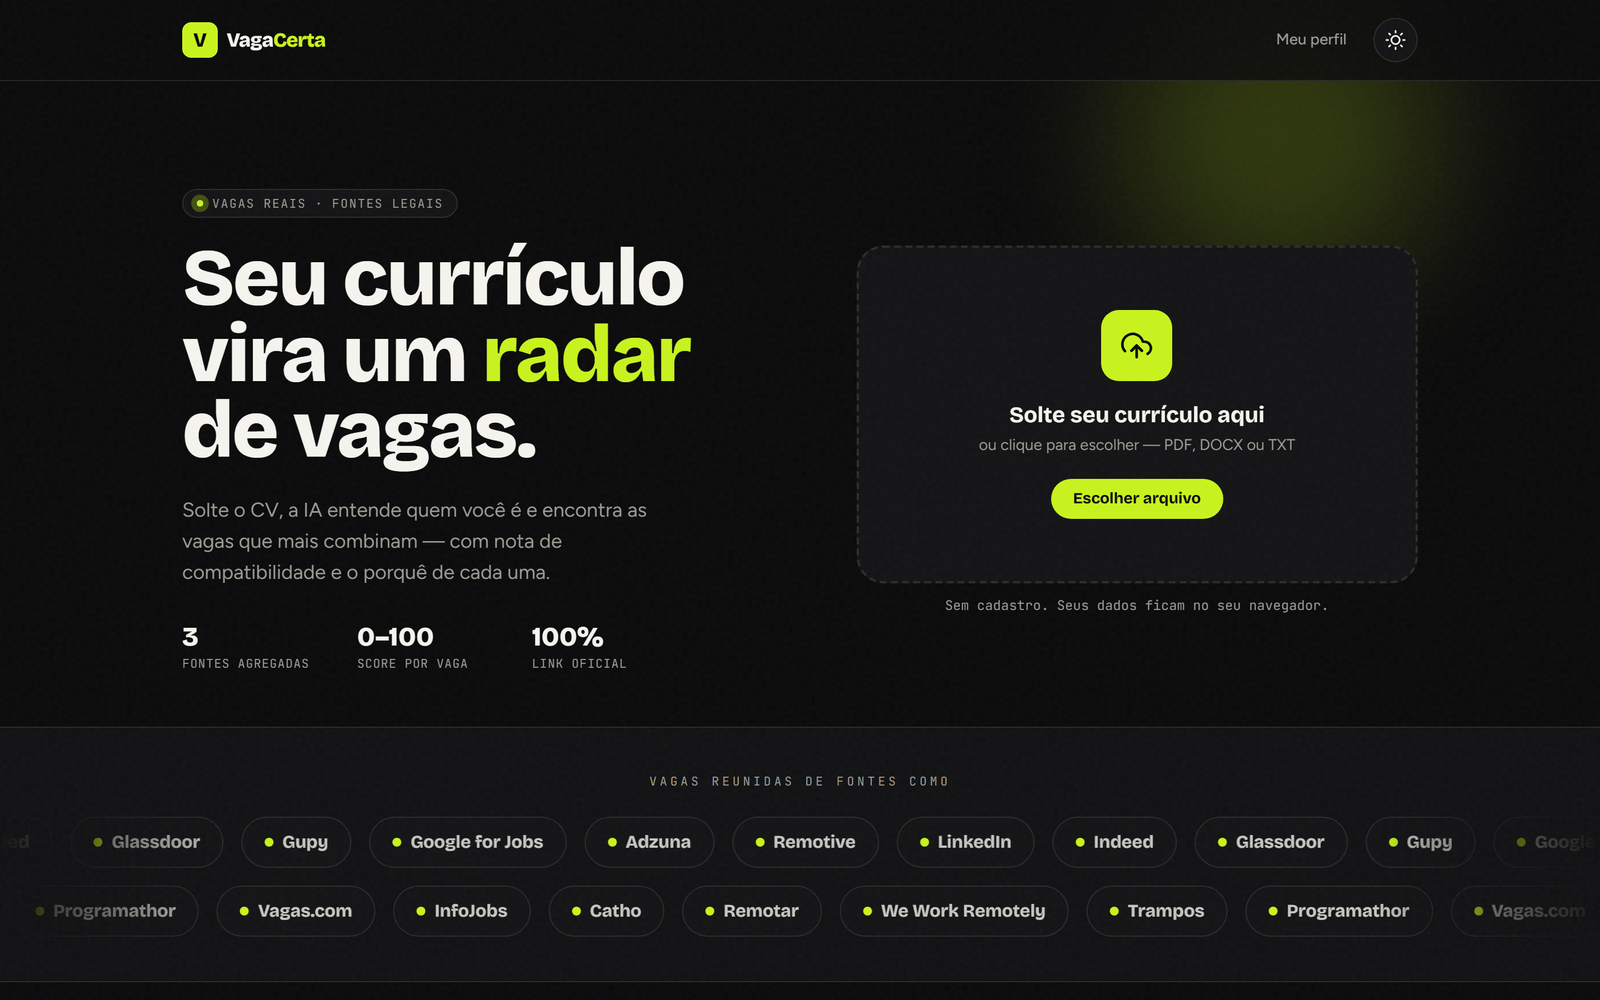
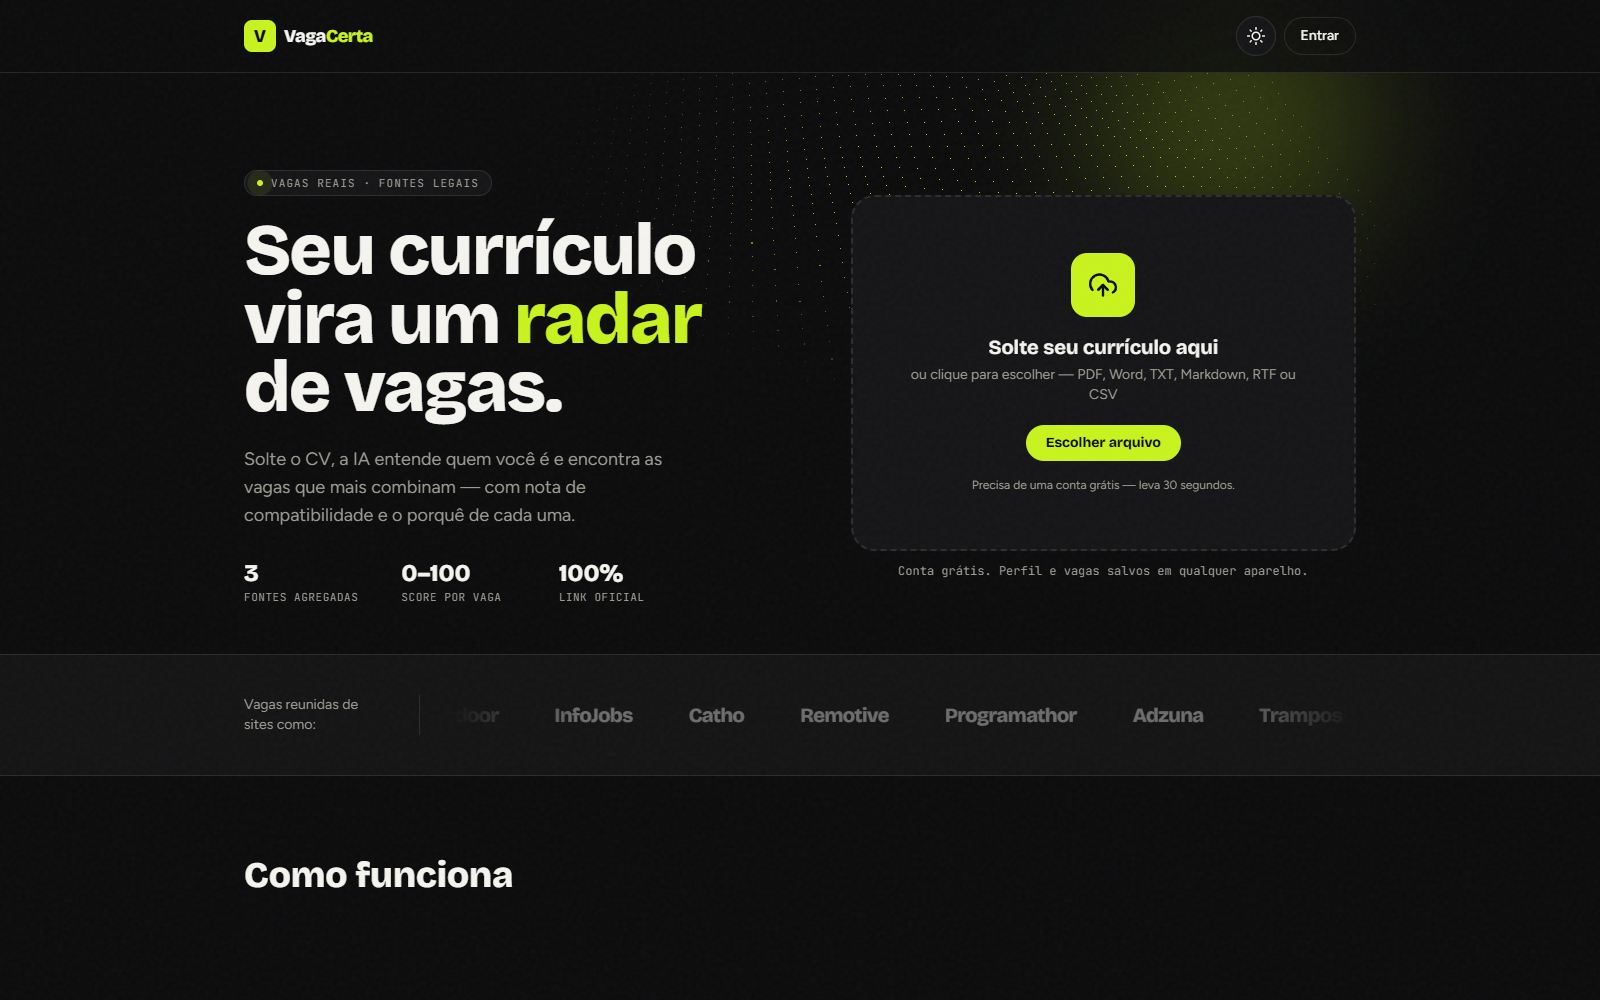
docs: README, AGENTS.md e prints com o estado atual do projeto
- Prints novos (1600x1000, claro e escuro) com conta de demonstração e
  currículo fictício: landing, resultados, perfil e o tracker (novo).
- README: funções novas (lacunas do CV, filtros de salário, descarte, vagas
  novas, perfil editável, exportar/excluir), tracker com 4 etapas e na
  conta, decisões 7 (custo da IA: cota, cache, prazo) e 8 (RLS, prompt
  sem corpo da requisição, sessão revalidada, retenção), arquitetura,
  scripts de migration, 439 testes, selo do CI e roadmap.
- AGENTS.md: o produto exige conta (o texto ainda dizia o contrário) e o
  mapa do código atual.

diff --git a/README.md b/README.md
@@ -13,7 +13,8 @@ com os motivos a favor, o que falta no seu perfil e o **link oficial de candidat
 ![TypeScript](https://img.shields.io/badge/TypeScript-5-3178C6?style=flat-square&logo=typescript&logoColor=white)
 ![Tailwind CSS](https://img.shields.io/badge/Tailwind-4-06B6D4?style=flat-square&logo=tailwindcss&logoColor=white)
 ![Gemini](https://img.shields.io/badge/Gemini-3.1_Flash--Lite-4285F4?style=flat-square&logo=googlegemini&logoColor=white)
-![Tests](https://img.shields.io/badge/testes-139_passando-4d7c0f?style=flat-square)
+![Tests](https://img.shields.io/badge/testes-439_passando-4d7c0f?style=flat-square)
+![CI](https://github.com/cielioqueiroz/buscador-de-cv/actions/workflows/ci.yml/badge.svg)
 ![License](https://img.shields.io/badge/licença-MIT-informational?style=flat-square)
 
 <br/>
@@ -42,8 +43,22 @@ Você solta o currículo — **PDF, Word (.doc/.docx), TXT, Markdown, RTF ou CSV
    Baixe em **PDF** ou **compartilhe** pelo menu do seu próprio celular.
 5. Você vai direto ao **link oficial** — sem intermediário.
 6. Em cada vaga, você pode **adaptar o CV** para destacar somente experiências reais relevantes.
-7. Adicione oportunidades ao **tracker Kanban** e acompanhe Aplicado → Entrevista → Oferta.
+7. Adicione oportunidades ao **tracker Kanban** — Aplicado → Entrevista → Oferta → Recusado —,
+   com anotações e a data da entrevista.
 8. No seu perfil, gere um relatório de **como melhorar o CV** com prioridades acionáveis.
+
+E no dia a dia:
+
+- **O que mais falta no seu CV** — as habilidades que as vagas pedem e o currículo não mostra,
+  somadas na lista inteira.
+- **Filtros** por modalidade, data, fonte, salário (com moeda e período certos) e nota mínima;
+  e **"Onde"** refaz a busca por estado, cidade ou país.
+- **"Não tenho interesse"** com motivo tira a vaga da lista (e das próximas buscas), com desfazer.
+- **Vagas novas**: depois de uma nova busca, as vagas com nota 70+ que não estavam na anterior
+  ganham o selo **Nova**, e o painel avisa quantas chegaram.
+- **Perfil editável** — se a IA entendeu errado alguma habilidade, você corrige e as próximas
+  buscas usam a sua versão.
+- **Seus dados são seus** — exporte tudo em JSON ou exclua a conta em `/conta` (LGPD).
 
 Para usar, basta **criar uma conta grátis** (e-mail e senha, ou Google). O perfil, o tracker,
 os favoritos, as cartas e a foto ficam salvos na conta — em qualquer aparelho. Quem está logado
@@ -74,7 +89,7 @@ flowchart LR
     M -.-> N[["CV direcionado<br/>resumo · skills · destaques"]]
     D -.-> O{{"🧠 Gemini<br/>generateCVImprovementReport"}}
     O -.-> P[["Relatório<br/>forças · lacunas · ações"]]
-    I -.-> Q["📌 Tracker local<br/>Aplicado → Entrevista → Oferta"]
+    I -.-> Q["📌 Tracker na conta<br/>Aplicado → Entrevista → Oferta → Recusado"]
 
     style C fill:#4285F4,stroke:#4285F4,color:#fff
     style H fill:#4285F4,stroke:#4285F4,color:#fff
@@ -89,6 +104,8 @@ flowchart LR
 
 ## Telas
 
+<sub>Prints com uma conta de demonstração e um currículo fictício.</sub>
+
 <table>
 <tr>
 <td width="50%" align="center"><b>🌙 Escuro</b></td>
@@ -99,14 +116,25 @@ flowchart LR
 <td><img src="assets/screenshots/resultados-light.png" alt="Resultados — tema claro"/></td>
 </tr>
 <tr>
-<td colspan="2" align="center"><sub>Vagas ranqueadas: nota de match, o que combina (✓) e o que falta (⚠), com link oficial.</sub></td>
+<td colspan="2" align="center"><sub>Vagas ranqueadas: nota de match, o que combina (✓) e o que falta (⚠), o que mais falta no CV, filtros e o link oficial.</sub></td>
 </tr>
 <tr>
 <td><img src="assets/screenshots/perfil-dark.png" alt="Perfil — tema escuro"/></td>
 <td><img src="assets/screenshots/perfil-light.png" alt="Perfil — tema claro"/></td>
 </tr>
 <tr>
-<td colspan="2" align="center"><sub>O perfil que a IA extraiu do seu currículo — e as buscas que ela gerou a partir dele.</sub></td>
+<td colspan="2" align="center"><sub>O painel: o perfil que a IA extraiu, as candidaturas em números, o que falta para o perfil ficar completo e as habilidades — editáveis.</sub></td>
+</tr>
+<tr>
+<td><img src="assets/screenshots/candidaturas-dark.png" alt="Tracker — tema escuro"/></td>
+<td><img src="assets/screenshots/candidaturas-light.png" alt="Tracker — tema claro"/></td>
+</tr>
+<tr>
+<td colspan="2" align="center"><sub>O tracker: arraste os cards ou troque a etapa pelo seletor; anotações e data da entrevista em cada card.</sub></td>
+</tr>
+<tr>
+<td><img src="assets/screenshots/landing-dark.png" alt="Landing — tema escuro"/></td>
+<td><img src="assets/screenshots/landing-light.png" alt="Landing — tema claro"/></td>
 </tr>
 </table>
 
@@ -123,9 +151,10 @@ cautelas para você revisar antes de enviar.
 
 ### Tracker de candidaturas
 
-O botão **Acompanhar** salva a vaga no tracker, disponível em `/candidaturas`.
-O quadro tem três colunas e aceita arrastar os cards ou mudar a etapa pelo
-seletor. O tracker fica salvo na conta.
+O botão **Acompanhar** salva a vaga no tracker, em `/candidaturas`. São quatro colunas —
+Aplicado, Entrevista, Oferta e Recusado —, com arrastar e soltar ou o seletor de etapa (que
+funciona no teclado). Cada card guarda anotações e a data da entrevista, e remover tem desfazer.
+Tudo fica salvo na conta.
 
 ### Relatório de melhoria do CV
 
@@ -133,13 +162,14 @@ Em `/perfil`, o painel **Como melhorar seu CV** analisa o currículo atual e
 retorna pontos fortes, melhorias priorizadas e termos para investigar. A IA é
 instruída a diferenciar uma lacuna real de uma habilidade que não foi comprovada.
 
-### Alertas por e-mail
+### Vagas novas, dentro do app
 
-Esta é a próxima integração. A interface ainda não coleta e-mail porque o app
-não possui persistência de assinaturas nem provedor de envio. Para ativar
-alertas recorrentes com segurança, a próxima etapa será adicionar um adapter de
-e-mail, uma tabela protegida por RLS e um job agendado para buscar vagas novas
-com score mínimo.
+Não há busca em segundo plano — cada busca gasta cota da IA e das fontes. Então "nova" é a
+vaga que apareceu na busca mais recente e não estava na anterior, com nota **70 ou mais**: ela
+ganha o selo **Nova** em `/resultados`, e o painel do `/perfil` avisa quantas chegaram. Com a
+lista a 3 dias ou mais, aparece o convite **Buscar vagas novas**.
+
+Alertas **por e-mail** ficam para quando houver domínio próprio para o envio (Resend).
 
 <br/>
 
@@ -199,8 +229,7 @@ exatamente a carta que recrutador descarta: proibidos o clichê ("sempre fui apa
 por…"), o currículo reescrito em prosa, e — o pior — inventar experiência que não está no
 CV. Quando a vaga pede algo que falta, a carta reconhece com honestidade em vez de mentir.
 
-A carta é salva por vaga no `localStorage`: reabrir não gasta outra chamada. Trocar de
-currículo apaga as cartas — elas nasceram do CV antigo.
+A carta é salva por vaga na conta: reabrir não gasta outra chamada, em qualquer aparelho.
 
 **O PDF usa a impressão nativa do navegador.** A carta tem uma folha A4 própria, e o botão
 abre o diálogo para a pessoa escolher "Salvar como PDF". Assim o app não precisa manter uma
@@ -235,15 +264,39 @@ gerava buscas descritivas e longas — que não retornavam nada:
 O prompt agora limita a 3 palavras e proíbe senioridade nas buscas. Parece um detalhe; é a
 diferença entre o app achar vagas e não achar.
 
-### 6. Página vazia não vai para o índice
+### 6. Página sem conteúdo público não vai para o índice
 
-`/perfil` e `/resultados` só ganham conteúdo depois que você envia um CV — o estado vive no
-`localStorage`. Para um robô, elas são cascas de **8 e 98 palavras**. Estão em `noindex` e fora
-do sitemap: página vazia indexada não deixa de ranquear, ela **puxa o site inteiro para baixo**.
+As áreas da conta (`/perfil`, `/resultados`, `/candidaturas`, `/conta`) exigem login — para um
+robô, são só um redirecionamento. Ficam em `noindex` e bloqueadas no `robots.txt`: página vazia
+indexada não deixa de ranquear, ela **puxa o site inteiro para baixo**.
 
 O que o site expõe para máquinas: `robots.txt`, `sitemap.xml`, JSON-LD (`WebApplication` +
 `FAQPage`), Open Graph com banner próprio, e um `llms.txt` para ChatGPT/Perplexity entenderem
 e citarem o projeto.
+
+### 7. O custo da IA tem freio por conta — e prazo
+
+A IA é a parte paga do app, então ela tem três travas:
+
+- **Limite por minuto** e **cota diária por conta** (10 análises de CV, 30 buscas pontuadas,
+  20 cartas, 20 adaptações, 5 relatórios — renova à meia-noite de Brasília). A cota só é
+  gasta quando a IA é chamada de fato.
+- **Cache de notas** por versão do CV: a mesma vaga com o mesmo currículo não volta à IA por
+  14 dias.
+- **Orçamento de tempo**: retry com espera crescente quando o Gemini está sobrecarregado,
+  mas tudo dentro de 50 s — nunca o 504 mudo da Vercel. Esgotou, a pessoa lê "A IA está com
+  muita demanda agora", não "Falha".
+
+### 8. Segurança e privacidade no servidor, não na promessa
+
+- **RLS no Postgres**: as consultas de dados do usuário rodam numa role sem `BYPASSRLS`; uma
+  consulta que esqueça o `where user_id` volta vazia, nunca com dado de outra pessoa.
+- **A IA nunca lê o corpo da requisição**: perfil e vaga saem do banco — ninguém injeta texto
+  no prompt editando o request.
+- **Sessão revalidada**: senha trocada ou conta excluída derrubam os logins abertos.
+- **Retenção de verdade**: um job diário faz o backup criptografado do banco e, depois dele,
+  apaga notas vencidas, buscas antigas, tokens usados e contas sem acesso há 24 meses — o que
+  a [política de privacidade](https://vaga-certa-sooty.vercel.app/privacidade) promete.
 
 <br/>
 
@@ -254,42 +307,39 @@ Para a matriz de controles e os limites conhecidos, consulte [`SECURITY.md`](SEC
 ```text
 app/
   page.tsx                 landing + upload do CV
-  resultados/page.tsx      vagas com score + filtros
-  perfil/page.tsx          perfil extraído do CV
-  candidaturas/page.tsx    tracker Kanban (local ou na conta)
-  entrar · cadastrar       login e cadastro (NextAuth v5)
+  resultados/              vagas com score, filtros, "Onde" e vagas novas
+  perfil/                  painel: perfil, candidaturas, checklist, habilidades
+  candidaturas/            tracker Kanban (na conta)
+  conta/                   foto, nome, exportar dados e excluir conta
+  entrar · cadastrar       login e cadastro (NextAuth v5, e-mail ou Google)
   esqueci-senha · redefinir-senha
-  conta/page.tsx           foto de perfil e nome
+  privacidade/             política de privacidade (LGPD)
+  not-found.tsx            404 com caminho de volta
   api/
     auth/                  NextAuth + cadastro + reset de senha
-    perfil/                import de dados antigos do navegador, foto (avatar) e conta
-    sync/                  tracker, favoritos, cartas e CVs adaptados no banco
+    perfil/                avatar, conta, CV editado e exportação
+    sync/                  tracker, favoritos, cartas, CVs adaptados, descartes e estado
     cv/analyze             extrai texto → Gemini devolve o CVProfile
     cv/adapt               adapta o CV para uma vaga específica
     cv/report              relatório de melhorias do CV
     jobs/search            busca nos providers (paralelo) → normaliza → dedup
-    jobs/match             Gemini pontua CV × vagas, em lote único
+    jobs/match             Gemini pontua CV × vagas, em lote único (com cache)
     cover-letter           Gemini escreve a carta de UMA vaga — só sob clique
 lib/
-  providers/               adapters isolados + agregador
+  providers/               adapters isolados + agregador + fetch com timeout
     types.ts               schemas zod — o contrato de tudo
     adzuna · remotive · jsearch
-  ai/gemini.ts             analyzeCV + matchJobs + generateCoverLetter
-  cover-letter.ts          schemas da carta + serialização (tom, tamanho, ATS)
-  cv-features.ts           schemas de adaptação e relatório do CV
-  applications.ts          persistência validada do tracker local
-  share.ts                 Web Share API com queda para a área de transferência
+  ai/gemini.ts             análise · matching · carta · adaptação · relatório (retry com prazo)
+  jobs/                    busca, ranking, cache de notas, vagas novas e descartes no banco
+  api/                     leitura limitada de JSON, guarda de origem, cota de IA, erro 503
+  auth/                    usuários, senha, sessão, reset, avatar, perfil, sync e LGPD
+  db/                      pool do Postgres (Neon) + escopo RLS por usuário
   cv/parser.ts             extração de texto (PDF · Word · TXT · Markdown · RTF · CSV)
-  api/request.ts           limite de corpo, JSON e proteção de origem
-  providers/http.ts        fetch externo com timeout
-  deploy-recovery.ts       recuperação de chunks antigos após deploy
-  matching.ts              rankJobs — ordena e casa cada nota com sua vaga
   rate-limit.ts            limite por janela (Upstash, com queda para memória)
-  api/ai-quota.ts          cota diária de IA por conta
-  store.ts                 persistência local (localStorage)
-  auth/                    usuários, senha, reset, avatar, perfil e sync no banco
-  db/client.ts             pool do Postgres (Neon serverless ou pg)
-db/migrations/             SQL fonte de verdade do schema
+  client/                  estado do navegador, sync com a API, diálogos
+  matching · filters · salary · skills-gap · region · share
+db/migrations/             SQL fonte de verdade do schema (0001–0012)
+.github/workflows/         CI (lint, tipos, testes, build, audit) e backup diário
 components/                UI própria — sem kit genérico
 ```
 
@@ -324,7 +374,7 @@ npm run dev                  # http://localhost:3000
 | `GEMINI_API_KEY` | Análise do CV e matching | [aistudio.google.com/apikey](https://aistudio.google.com/apikey) | ✅ |
 | `ADZUNA_APP_ID` · `ADZUNA_APP_KEY` | Vagas no Brasil | [developer.adzuna.com](https://developer.adzuna.com) | recomendada |
 | `RAPIDAPI_KEY` | JSearch | [rapidapi.com](https://rapidapi.com) → assine "JSearch" | recomendada |
-| `UPSTASH_REDIS_REST_URL` · `UPSTASH_REDIS_REST_TOKEN` | Rate limit distribuído por IP | [upstash.com](https://upstash.com) (Redis grátis) | produção |
+| `UPSTASH_REDIS_REST_URL` · `UPSTASH_REDIS_REST_TOKEN` | Limites e cota de IA compartilhados entre instâncias (a integração da Vercel injeta `KV_REST_API_*`, também aceitas) | [upstash.com](https://upstash.com) (Redis grátis) | produção |
 | `DATABASE_URL` | Contas e dados salvos (Postgres) | [neon.tech](https://neon.tech) → connection string *pooled* | para contas |
 | `AUTH_SECRET` | Assina a sessão | `openssl rand -base64 32` | para contas |
 | `AUTH_GOOGLE_ID` · `AUTH_GOOGLE_SECRET` | "Entrar com Google" | Google Cloud Console → OAuth client | opcional |
@@ -336,9 +386,9 @@ Talent.com** e outros. Sem elas, sobra só o Remotive (público, mas só vagas r
 internacionais).
 
 Cada provider degrada com elegância — faltando uma chave, ele retorna vazio e os outros seguem
-funcionando. O Upstash é opcional: sem ele, o rate limit usa um contador em memória por
-instância; com ele, o teto por IP vale para o app inteiro (recomendado em produção, pois é o
-principal freio da cota paga do Gemini num app aberto).
+funcionando. O Upstash é opcional: sem ele, os limites usam um contador em memória por
+instância; com ele, valem para o app inteiro (recomendado em produção, pois é o principal
+freio da cota paga do Gemini).
 
 O app exige conta para analisar o CV, buscar e pontuar vagas e gerar textos — as rotas de IA
 devolvem 401 sem sessão. Com `DATABASE_URL` e `AUTH_SECRET`, o login por e-mail e senha
@@ -354,16 +404,22 @@ Rode nos dois branches do Neon (main e preview).
 ## Scripts
 
 ```bash
-npm run dev      # desenvolvimento
-npm run build    # build de produção
-npm start        # serve o build
-npm test         # testes unitários e de integração (Vitest)
-npm run lint     # ESLint
+npm run dev        # desenvolvimento
+npm run build      # build de produção
+npm start          # serve o build
+npm test           # testes unitários e de integração (Vitest)
+npm run lint       # ESLint
+npm run db:migrate # aplica as migrations pendentes
+npm run db:status  # lista o estado das migrations
 ```
 
-Os testes cobrem os adapters, o parser, o agregador, as guardas das rotas, o retry do Gemini,
-o matching em lote, os contratos de adaptação/relatório e o tracker — com as APIs externas
-mockadas. **Nenhum teste gasta chamada de IA.**
+São **439 testes**: adapters, parser, agregador, guardas e limites das rotas, cota de IA,
+retry com prazo do Gemini, matching em lote, cache de notas, vagas novas, RLS, sessão, LGPD,
+tracker, componentes — e até o contraste das cores dos dois temas e a estrutura de
+acessibilidade das páginas. As APIs externas são mockadas: **nenhum teste gasta chamada de IA.**
+
+O CI roda lint, tipos, testes, build e `npm audit` a cada push; o deploy na Vercel sai do
+`master`.
 
 <br/>
 
@@ -371,14 +427,17 @@ mockadas. **Nenhum teste gasta chamada de IA.**
 
 - [x] Contas — e-mail/senha ou Google, reset de senha, foto de perfil, painel e dados salvos no Neon
 - [x] Excluir conta e exportar os dados — em `/conta`, com confirmação por e-mail e senha
-- [ ] Trocar o e-mail com verificação
-- [x] ~~Gerar carta de apresentação por vaga~~ — feito: tom, tamanho, ATS, editar, PDF, compartilhar
+- [x] Gerar carta de apresentação por vaga — tom, tamanho, ATS, editar, PDF, compartilhar
 - [x] Adaptar o CV por vaga — rascunho direcionado, sem inventar experiência
-- [x] Tracker de candidaturas — Kanban local: Aplicado → Entrevista → Oferta
-- [x] Alerta de vagas novas no app — selo "Nova" e aviso no painel para vagas com nota 70+ que não estavam na busca anterior
-- [ ] Alertas por e-mail de vagas novas com bom score (depende de domínio próprio para o Resend)
-- [x] Retenção — contas sem acesso por 24 meses são excluídas pelo job diário, depois do backup
+- [x] Tracker de candidaturas — Kanban na conta, com anotações, data da entrevista e etapa Recusado
 - [x] Relatório "como melhorar seu CV" — forças, prioridades e termos para investigar
+- [x] Lacunas do CV, filtros de salário, descarte com motivo e perfil editável
+- [x] Alerta de vagas novas no app — selo "Nova" e aviso no painel (nota 70+)
+- [x] Cota diária de IA por conta e orçamento de tempo nas chamadas
+- [x] Retenção — backup diário criptografado, limpeza de dados vencidos e contas inativas há 24 meses
+- [x] Acessibilidade — "pular para o conteúdo", contraste AA nos dois temas, alvos de toque
+- [ ] Alertas por e-mail de vagas novas (depende de domínio próprio para o Resend)
+- [ ] Trocar o e-mail com verificação (idem)
 
 <br/>
 

diff --git a/AGENTS.md b/AGENTS.md
@@ -4,7 +4,7 @@ Este arquivo orienta agentes que trabalham neste repositório. O README explica 
 
 ## Objetivo do projeto
 
-O Vaga Certa recebe um currículo, extrai um perfil com IA, busca vagas reais, calcula compatibilidade e permite gerar uma carta específica por vaga. O produto não exige cadastro: o estado do usuário fica no navegador e as chaves de integração ficam no servidor.
+O Vaga Certa recebe um currículo, extrai um perfil com IA, busca vagas reais, calcula compatibilidade e permite gerar uma carta específica por vaga. Usar exige conta (e-mail e senha, ou Google): perfil, ranking, tracker, favoritos, cartas e foto ficam no Postgres (Neon) com RLS por usuário; o navegador guarda só preferências do aparelho (tema, região) e as chaves de integração ficam no servidor.
 
 ## Antes de editar
 
@@ -18,26 +18,32 @@ O Vaga Certa recebe um currículo, extrai um perfil com IA, busca vagas reais, c
 ```text
 app/
   api/                  rotas HTTP e composição dos módulos de domínio
-  candidaturas/         tracker Kanban local de candidaturas
-  perfil/               visualização do perfil salvo
-  resultados/           ranking, filtros e ações das vagas
+  candidaturas/         tracker Kanban de candidaturas (na conta)
+  conta/                foto, nome, exportar dados e excluir conta (LGPD)
+  perfil/               painel: perfil salvo, candidaturas, habilidades editáveis
+  resultados/           ranking, filtros, "Onde", vagas novas e ações das vagas
+  privacidade/          política de privacidade (texto fiel ao que o código faz)
+  not-found.tsx         404 próprio
   page.tsx              landing page e ponto de entrada do upload
 components/             interface visual e interações do navegador
 db/
-  migrations/           SQL fonte de verdade (aplicado em Neon via MCP)
+  migrations/           SQL fonte de verdade (npm run db:migrate, branches main e preview)
 lib/
-  ai/                   adapter do Gemini e contratos de resposta
-  api/                  leitura limitada e validação de requisições
+  ai/                   adapter do Gemini (retry com orçamento de tempo) e contratos
+  api/                  leitura limitada, guarda de origem, cota diária de IA, erro 503
+  auth/                 usuários, sessão revalidada, reset, avatar, perfil, sync e LGPD
+  client/               estado do navegador, sync com a API, diálogos
   cv/                   parsing seguro dos formatos aceitos
   cv-features.ts        schemas de adaptação e relatório do CV
-  applications.ts       persistência validada do tracker local
-  db/                   cliente Postgres (Neon serverless / pg)
+  db/                   cliente Postgres (Neon serverless / pg) e escopo RLS
+  jobs/                 busca, ranking, cache de notas, vagas novas e descartes
   providers/            adapters de fontes de vagas + agregação
   __tests__/            testes de módulos e rotas
   journey.ts            fluxo do upload até o ranking
-  matching.ts            pontuação e ordenação
-  store.ts              persistência validada no localStorage
-docs/                   especificações de design históricas
+  matching.ts           pontuação e ordenação
+  store.ts              cache validado no localStorage (cartas, região)
+.github/workflows/      CI e backup diário (dump criptografado + retenção)
+docs/                   especificações de design históricas (fora do git)
 assets/                 screenshots e material visual do README
 ```
 
